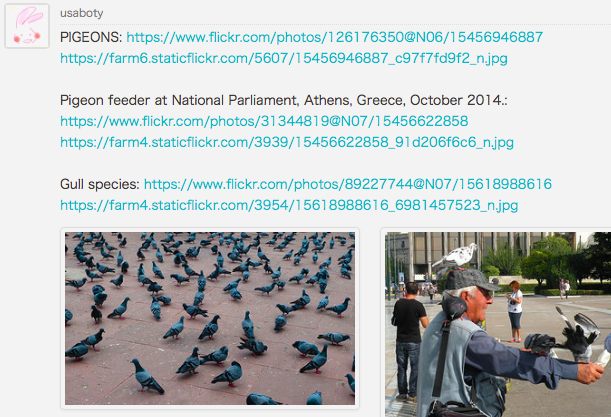
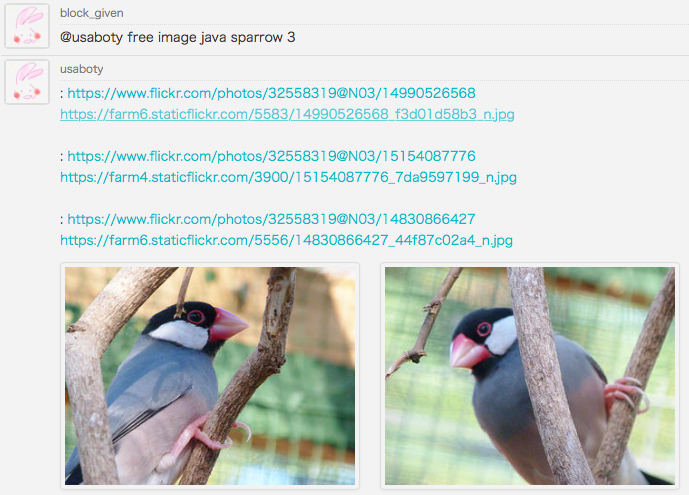
only CC or CC BY-SA

diff --git a/lib/ruboty/free_image/actions/flickr.rb b/lib/ruboty/free_image/actions/flickr.rb
@@ -9,8 +9,10 @@ module Ruboty
           FlickRaw.shared_secret = ENV['FLICKR_API_SECRET']
 
           count = message[:count] || 10
+          # CC BY, CC BY-SA
+          license = "4,5"
 
-          photos = flickr.photos.search(per_page: count, text: message[:keyword]).map do |photo|
+          photos = flickr.photos.search(license: license, per_page: count, text: message[:keyword]).map do |photo|
             {
               image_url: FlickRaw.url_n(photo),
               title: photo.title,

diff --git a/README.md b/README.md
@@ -22,11 +22,11 @@ Or install it yourself as:
 
 ## Usage
 
-    @ruboty free image pigeon
+    @ruboty free image java sparrow
 
 ## Support
 
-- [x] flickr api
+- [x] flickr api([CC BY](http://creativecommons.org/licenses/by/2.0/), [CC BY-SA](http://creativecommons.org/licenses/by-sa/2.0/))
 - [ ] media wiki [Allimages](http://www.mediawiki.org/wiki/API:Allimages), [Opensearch](http://www.mediawiki.org/wiki/API:Opensearch) API
 - [ ] and more...
 
